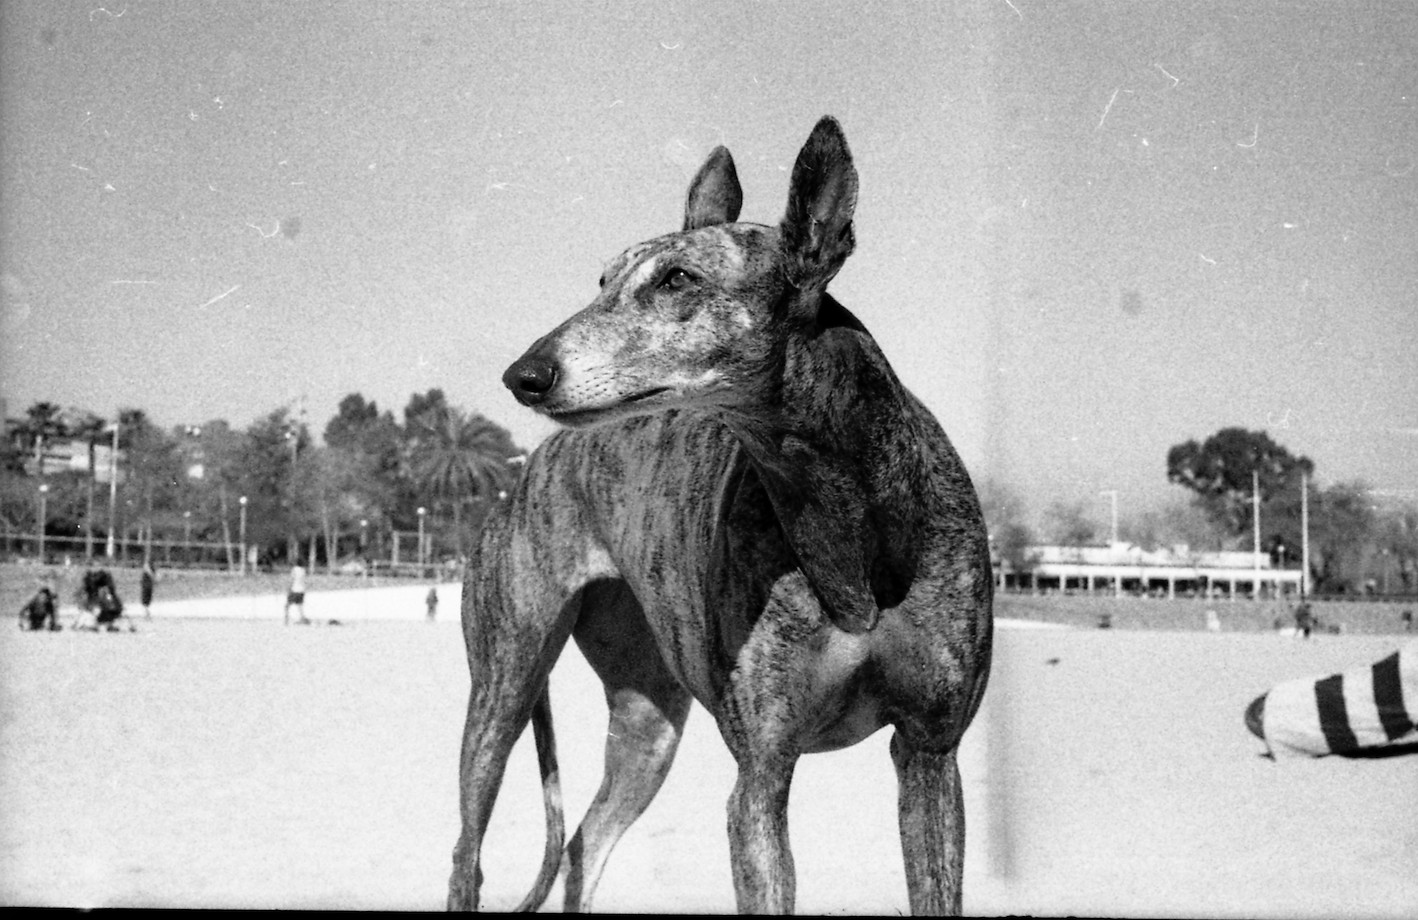
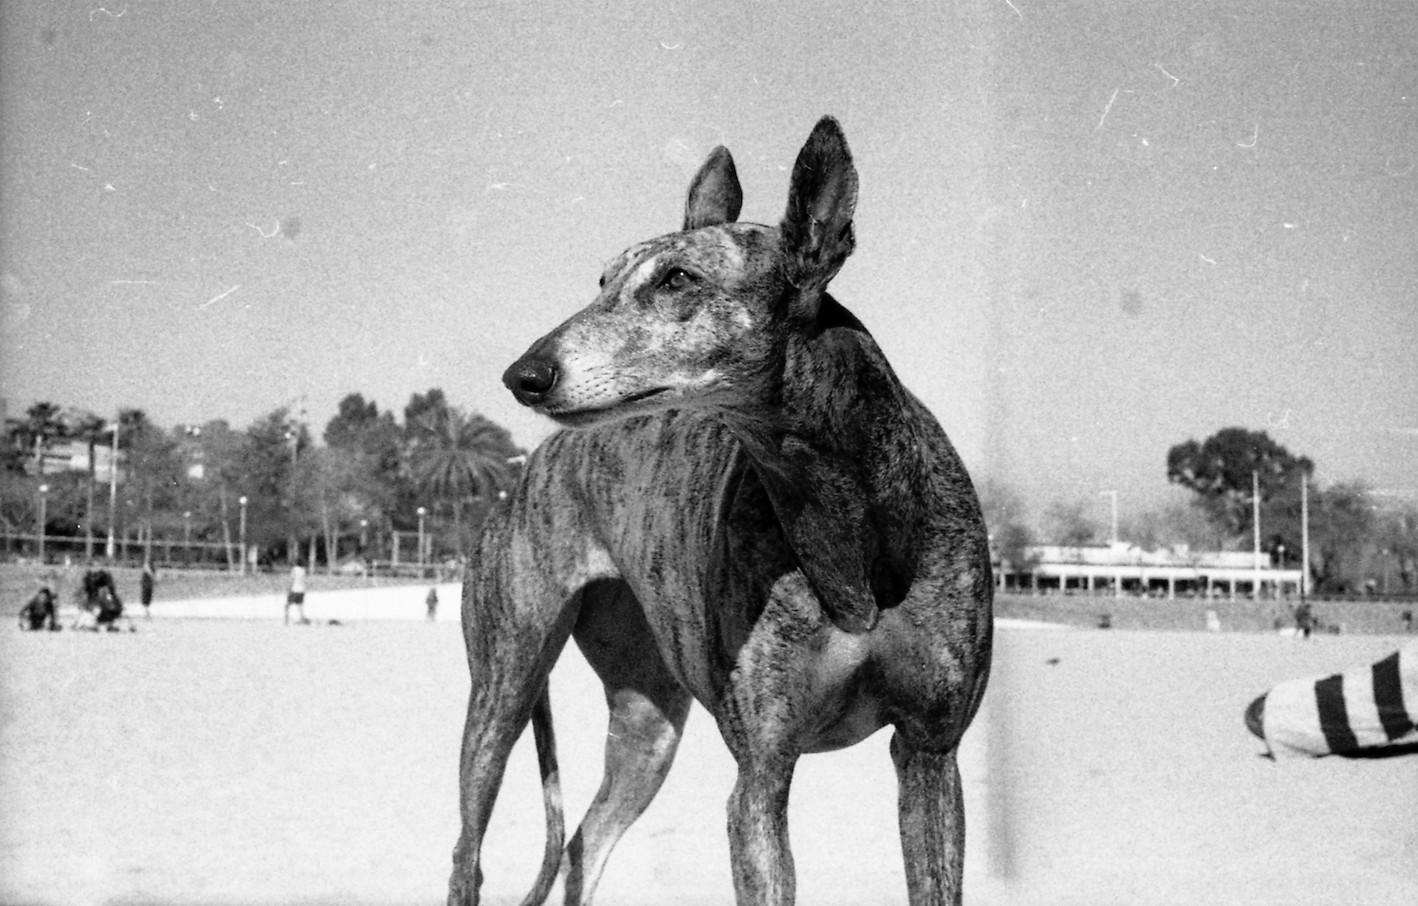
CALIMA: cover back, last trolley from the gallery scan; IR-68 off home; IR-55 bottom edge
Claude-Session: https://claude.ai/code/session_01KwFkcjtweLDd6qYYzFRxw4

Changed region(s): [[0.0, 0.1545, 1.0, 1.0], [0.5585, 0.1236, 0.6206, 0.1854], [0.9929, 0.4636, 1.0, 0.4945]]

diff --git a/es/calima.html b/es/calima.html
@@ -21,7 +21,7 @@
 <meta content="CALIMA · Analogue photography series · Iyán Rojo" property="og:title"/>
 <meta content="CALIMA: a 35 mm colour film series by Iyán Rojo shot in Gran Canaria in 2022, when Saharan dust tints the most touristic coast of the Canary Islands orange." property="og:description"/>
 <meta content="https://iyanrojo.com/calima.html" property="og:url"/>
-<meta content="https://iyanrojo.com/photos/cal-06.jpg" property="og:image"/>
+<meta content="https://iyanrojo.com/photos/cal-cover.jpg" property="og:image"/>
 <meta content="summary_large_image" name="twitter:card"/>
 <!-- /SEO -->
 <link href="https://fonts.googleapis.com" rel="preconnect"/>
@@ -48,13 +48,13 @@
 </header>
 <main class="case-page">
 <!-- PHOTO PROJECT: CALIMA (texts and photos from the presentation dossier, Canva).
-       Whole page in the dossier orange (#fa803d). Cover: photos/cal-06.jpg · Sequence: photos/cal-01.jpg … cal-20.jpg -->
+       Whole page in the dossier orange (#fa803d). Cover: photos/cal-cover.jpg · Sequence: photos/cal-01.jpg … cal-20.jpg -->
 <div class="wrap">
 <a class="back small" href="gallery.html">← Fotografía</a>
 </div>
 <section class="proj-cover">
 <figure>
-<img alt="Sunbathers under a tree on a beach in Gran Canaria" src="../photos/cal-06.jpg"/>
+<img alt="A shopping trolley abandoned against a white wall, with the shadow of a palm tree" src="../photos/cal-cover.jpg"/>
 </figure>
 </section>
 <div class="wrap">
@@ -77,6 +77,7 @@
 </section>
 <p class="cal-txt">la calima, fenómeno natural que cubre las islas con arena del Sáhara, aparecía durante varios días tiñendo el paisaje de un naranja irrespirable.</p>
 <section class="seq">
+<figure class="seq-item"><div class="ph"><img alt="Sunbathers under a tree on the beach" loading="lazy" src="../photos/cal-06.jpg"/></div></figure>
 <figure class="seq-item"><div class="ph"><img alt="A post and rope in the dunes" loading="lazy" src="../photos/cal-07.jpg"/></div></figure>
 </section>
 <p class="cal-txt">turistas y trabajadores parecían por fin entenderse en el campo de batalla gracias a este calor tóxico que se cuela por el tejido de la ropa e irrita los ojos.</p>

diff --git a/calima.html b/calima.html
@@ -20,7 +20,7 @@
 <meta property="og:title" content="CALIMA · Analogue photography series · Iyán Rojo">
 <meta property="og:description" content="CALIMA: a 35 mm colour film series by Iyán Rojo shot in Gran Canaria in 2022, when Saharan dust tints the most touristic coast of the Canary Islands orange.">
 <meta property="og:url" content="https://iyanrojo.com/calima.html">
-<meta property="og:image" content="https://iyanrojo.com/photos/cal-06.jpg">
+<meta property="og:image" content="https://iyanrojo.com/photos/cal-cover.jpg">
 <meta name="twitter:card" content="summary_large_image">
 <!-- /SEO -->
 <link rel="preconnect" href="https://fonts.googleapis.com">
@@ -49,14 +49,14 @@
 
 <main class="case-page">
   <!-- PHOTO PROJECT: CALIMA (texts and photos from the presentation dossier, Canva).
-       Whole page in the dossier orange (#fa803d). Cover: photos/cal-06.jpg · Sequence: photos/cal-01.jpg … cal-20.jpg -->
+       Whole page in the dossier orange (#fa803d). Cover: photos/cal-cover.jpg · Sequence: photos/cal-01.jpg … cal-20.jpg -->
   <div class="wrap">
     <a class="back small" href="gallery.html">← Photography</a>
   </div>
 
   <section class="proj-cover">
     <figure>
-      <img src="photos/cal-06.jpg" alt="Sunbathers under a tree on a beach in Gran Canaria">
+      <img src="photos/cal-cover.jpg" alt="A shopping trolley abandoned against a white wall, with the shadow of a palm tree">
     </figure>
   </section>
 
@@ -88,6 +88,7 @@
     <p class="cal-txt">the calima, a natural phenomenon that covers the islands with sand from the Sahara, would appear for several days, tinting the landscape an unbreathable orange.</p>
 
     <section class="seq">
+      <figure class="seq-item"><div class="ph"><img src="photos/cal-06.jpg" alt="Sunbathers under a tree on the beach" loading="lazy"></div></figure>
       <figure class="seq-item"><div class="ph"><img src="photos/cal-07.jpg" alt="A post and rope in the dunes" loading="lazy"></div></figure>
     </section>
 

diff --git a/gallery.html b/gallery.html
@@ -58,7 +58,7 @@
           <ul class="proj-list">
             <li><a href="dos-amigos.html" data-cover="photos/2a-cover.jpg"><span class="proj-name">2 Amigos</span></a></li>
             <li><a href="tierra-de-nadie.html" data-cover="photos/tdn-cover.jpg"><span class="proj-name">Tierra de Nadie</span></a></li>
-            <li><a href="calima.html" data-cover="photos/cal-06.jpg"><span class="proj-name">Calima</span></a></li>
+            <li><a href="calima.html" data-cover="photos/cal-cover.jpg"><span class="proj-name">Calima</span></a></li>
           </ul>
         </div>
       </aside>
@@ -85,7 +85,7 @@
   <span class="lb-ref small" id="lb-count"></span>
 </div>
 
-<script src="js/photos.js?v=4884c3c5"></script>
+<script src="js/photos.js?v=b75bf368"></script>
 <script>
 // Build the mosaic from the photo list. Each frame gets its final proportions up front,
 // so the layout never jumps while images load; each photo then fades in.

diff --git a/es/gallery.html b/es/gallery.html
@@ -57,7 +57,7 @@
 <ul class="proj-list">
 <li><a data-cover="../photos/2a-cover.jpg" href="dos-amigos.html"><span class="proj-name">2 Amigos</span></a></li>
 <li><a data-cover="../photos/tdn-cover.jpg" href="tierra-de-nadie.html"><span class="proj-name">Tierra de Nadie</span></a></li>
-<li><a data-cover="../photos/cal-06.jpg" href="calima.html"><span class="proj-name">Calima</span></a></li>
+<li><a data-cover="../photos/cal-cover.jpg" href="calima.html"><span class="proj-name">Calima</span></a></li>
 </ul>
 </div>
 </aside>
@@ -81,7 +81,7 @@
 <img alt="" id="lb-img"/>
 <span class="lb-ref small" id="lb-count"></span>
 </div>
-<script src="../js/photos.js?v=4884c3c5"></script>
+<script src="../js/photos.js?v=b75bf368"></script>
 <script>
 // Build the mosaic from the photo list. Each frame gets its final proportions up front,
 // so the layout never jumps while images load; each photo then fades in.

diff --git a/js/photos.js b/js/photos.js
@@ -18,7 +18,7 @@ window.PHOTOS = [
   {"f": "22.jpg", "w": 1994, "h": 1321},
   {"f": "18.jpg", "w": 1044, "h": 1284},
   {"f": "76.jpg", "w": 947, "h": 943},
-  {"f": "68.jpg", "w": 624, "h": 799},
+  {"f": "68.jpg", "w": 624, "h": 799, "nohome": 1},
   {"f": "74.jpg", "w": 1402, "h": 918},
   {"f": "36.jpg", "w": 751, "h": 753},
   {"f": "52.jpg", "w": 946, "h": 613, "l": "Barcelona", "le": "Barcelona", "y": 2019},
@@ -43,7 +43,7 @@ window.PHOTOS = [
   {"f": "73.jpg", "w": 1405, "h": 910},
   {"f": "17.jpg", "w": 1566, "h": 1292},
   {"f": "05.jpg", "w": 1140, "h": 1234, "l": "Asturias", "le": "Asturias", "y": 2020},
-  {"f": "55.jpg", "w": 1418, "h": 920},
+  {"f": "55.jpg", "w": 1418, "h": 906},
   {"f": "45.jpg", "w": 1194, "h": 760},
   {"f": "12.jpg", "w": 966, "h": 967},
   {"f": "51.jpg", "w": 1095, "h": 711, "l": "Barcelona", "le": "Barcelona", "y": 2019},

diff --git a/es/index.html b/es/index.html
@@ -63,7 +63,7 @@
 <button id="lb-close" type="button">Cerrar</button>
 <img alt="" id="lb-img"/>
 </div>
-<script src="../js/photos.js?v=4884c3c5"></script>
+<script src="../js/photos.js?v=b75bf368"></script>
 <script>
 // A photo appears when its file exists; otherwise the empty mount stays.
 document.querySelectorAll('.ph img').forEach(function (img) {

diff --git a/index.html b/index.html
@@ -68,7 +68,7 @@
   <img id="lb-img" alt="">
 </div>
 
-<script src="js/photos.js?v=4884c3c5"></script>
+<script src="js/photos.js?v=b75bf368"></script>
 <script>
 // A photo appears when its file exists; otherwise the empty mount stays.
 document.querySelectorAll('.ph img').forEach(function (img) {

diff --git a/tools/build_es.py b/tools/build_es.py
@@ -31,7 +31,7 @@ SEO = {
    "CALIMA: a 35 mm colour film series by Iyán Rojo shot in Gran Canaria in 2022, when Saharan dust tints the most touristic coast of the Canary Islands orange.",
    "CALIMA · Serie de fotografía analógica · Iyán Rojo",
    "CALIMA: serie en película de color de 35 mm de Iyán Rojo, fotografiada en Gran Canaria en 2022, cuando el polvo del Sáhara tiñe de naranja la costa más turística de Canarias.",
-   "photos/cal-06.jpg"),
+   "photos/cal-cover.jpg"),
  "dos-amigos.html": ("2 amigos · Analogue photography series · Iyán Rojo",
    "2 amigos: a medium-format film series by Iyán Rojo about Pedro and Tino ‘el Tigre’. Exhibited at the Centro Nacional de Fotografía, Torrelavega (Cantabria).",
    "2 amigos · Serie de fotografía analógica · Iyán Rojo",
